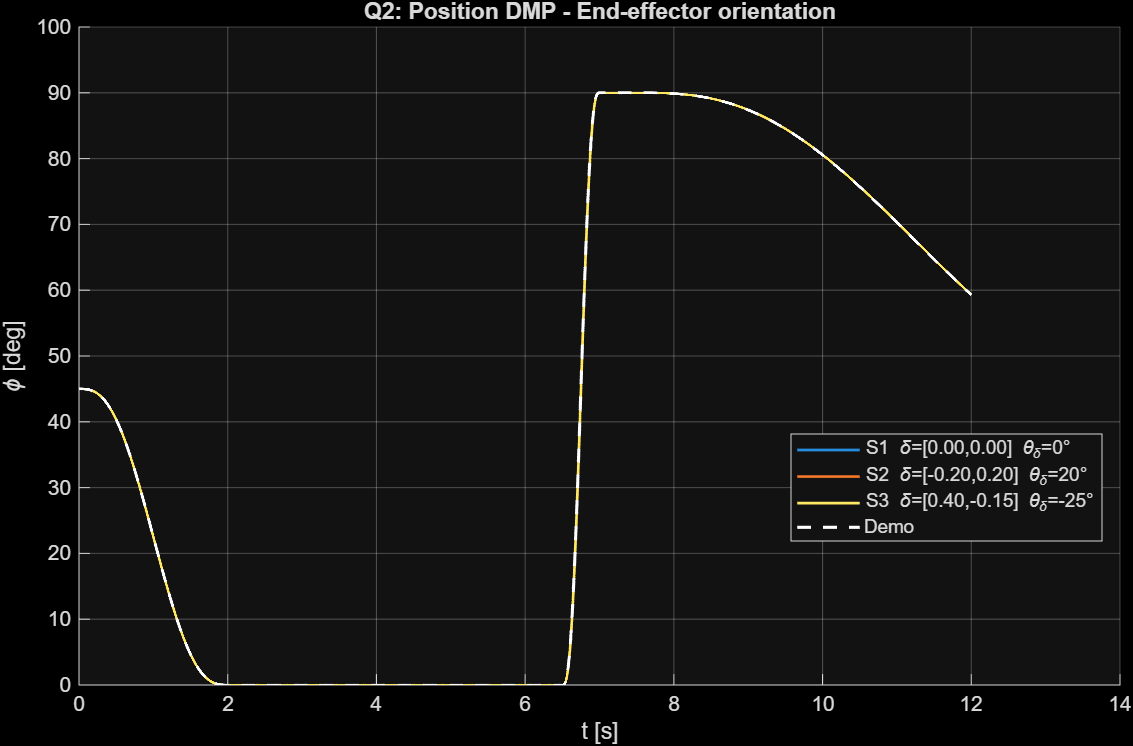
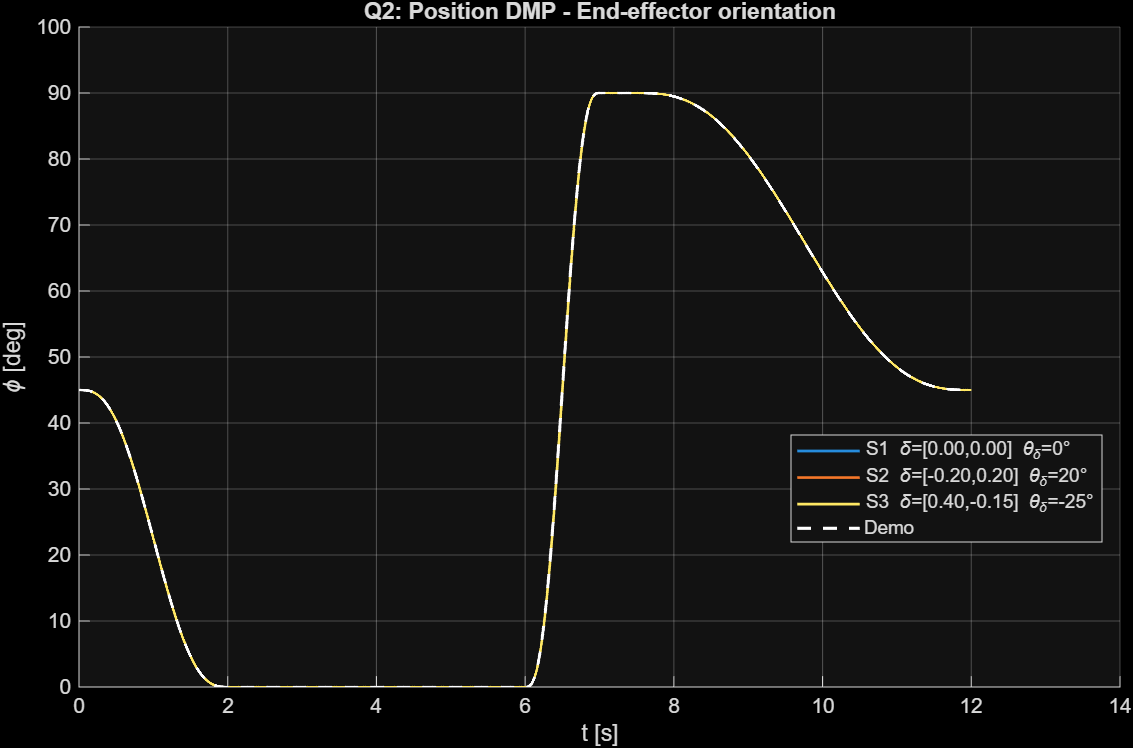
feedback changes

diff --git a/code/main_part2.m b/code/main_part2.m
@@ -41,9 +41,9 @@ timing.dt = 1e-3;
 timing.T_total = 12.0;
 timing.t_appr = 2.0;    % home -> grasp
 timing.t_track = 0.5;   % follow belt A while the gripper closes
-timing.t_trans = 3.5;   % grasp end -> above Part B
+timing.t_trans = 3.0;   % grasp end -> above Part B
 timing.t_lower = 0.5;   % above Part B -> entry (vertical, no rotation)
-timing.t_screw = 0.5;   % entry -> assembly (vertical + 90° rotation)
+timing.t_screw = 1.0;   % entry -> assembly (vertical + 90° rotation)
 timing.t_hold = 0.5;    % gripper opens
 
 %% 2. Generate Part 1 demonstration
@@ -129,7 +129,8 @@ for s = 1:n_s
     phi_1 = phi_grasp;
  
     % 2. Deliver: position DMP, orientation from Part 1
-    [p_2, ~, ~] = simulate_dmp(dmp_pos_del, p_grasp_end, g_pos, t_deliver);
+    dy0_del = dp_del(:, 1);
+    [p_2, ~, ~] = simulate_dmp(dmp_pos_del, p_grasp_end, g_pos, t_deliver, dy0_del);
     phi_2 = phi_deliver;
  
     % 3. Hold
@@ -183,9 +184,25 @@ for s = 1:n_s
     p_1 = p_grasp;
     phi_1 = phi_grasp;
  
-    % 2. Deliver: position + orientation DMPs
-    [p_2, ~, ~] = simulate_dmp(dmp_pos_del, p_grasp_end, g_pos, t_deliver);
-    [phi_2, ~, ~] = simulate_dmp(dmp_phi_del, phi_grasp_end, g_phi, t_deliver);
+    % 2a. Deliver Position
+    dy0_del = dp_del(:, 1);
+    [p_2, ~, ~] = simulate_dmp(dmp_pos_del, p_grasp_end, g_pos, t_deliver, dy0_del);
+    
+    % 2b. Deliver Orientation: Custom polynomial instead of DMP 
+    phi_2 = zeros(1, length(t_deliver));
+    t_align = timing.t_trans + timing.t_lower; % Duration of air movement
+    
+    for i = 1:length(t_deliver)
+        t_loc = t_deliver(i);
+        if t_loc <= t_align
+            % Phase A: Rotate to match the misalignment (theta_delta)
+            [phi_2(i), ~] = poly5_scalar(phi_grasp_end, scen(s).theta, 0, 0, t_align, t_loc);
+        else
+            % Phase B: The actual screw motion (strictly 90 degrees / pi/2)
+            t_screw_loc = t_loc - t_align;
+            [phi_2(i), ~] = poly5_scalar(scen(s).theta, scen(s).theta + pi/2, 0, 0, timing.t_screw, t_screw_loc);
+        end
+    end
  
     % 3. Hold
     n_h = round(timing.t_hold / timing.dt);
@@ -339,4 +356,15 @@ for ax_i = 1:4
 end
 sgtitle([ttl ' - Joint velocities']);
  
+end
+
+
+% 5th-order polynomial with position+velocity boundary conditions
+function [s, v] = poly5_scalar(s0, sf, v0, vf, T, t)
+    h = sf - s0;
+    a3 = (20*h - (8*vf + 12*v0)*T) / (2*T^3);
+    a4 = (-30*h + (14*vf + 16*v0)*T) / (2*T^4);
+    a5 = (12*h - 6*(vf + v0)*T) / (2*T^5);
+    s = s0 + v0*t + a3*t^3 + a4*t^4 + a5*t^5;
+    v = v0 + 3*a3*t^2 + 4*a4*t^3 + 5*a5*t^4;
 end

diff --git a/code/simulate_dmp.m b/code/simulate_dmp.m
@@ -1,4 +1,4 @@
-function [y, dy, ddy] = simulate_dmp(dmp, y0, g, t)
+function [y, dy, ddy] = simulate_dmp(dmp, y0, g, t, dy0)
 % Integrate a trained DMP forward with new start and goal
 %
 % Args:
@@ -6,6 +6,7 @@ function [y, dy, ddy] = simulate_dmp(dmp, y0, g, t)
 %   y0: new starting position
 %   g: new goal position
 %   t: time vector for the simulation
+%   dy0: (optional) initial spatial velocity vector
 %
 % Returns:
 %   y: generated position trajectory
@@ -19,10 +20,13 @@ g = g(:);
 D = numel(y0);
 scale = g - y0;   % the new spatial scale
 
+% Default to zero initial velocity if not provided
+if nargin < 5, dy0 = zeros(D, 1); end
+
 % State variables
 x = 1;   % canonical phase clock (starts at 1, decays to 0)
-y_curr = y0;   % initial position
-z_curr = zeros(D, 1);   % initial scaled velocity (starts from rest)
+y_curr = y0(:);   % initial position
+z_curr = dmp.tau * dy0(:);   % initial scaled velocity (allows non-zero starting velocity)
 
 y = zeros(D, N_t);
 dy = zeros(D, N_t);

diff --git a/code/main_part1.m b/code/main_part1.m
@@ -41,9 +41,9 @@ timing.dt = 1e-3;
 timing.T_total = 12.0;
 timing.t_appr = 2.0;    % home -> grasp
 timing.t_track = 0.5;   % follow belt A while the gripper closes
-timing.t_trans = 3.5;   % grasp end -> above Part B
+timing.t_trans = 3.0;   % grasp end -> above Part B
 timing.t_lower = 0.5;   % above Part B -> entry (vertical, no rotation)
-timing.t_screw = 0.5;   % entry -> assembly (vertical + 90° rotation)
+timing.t_screw = 1.0;   % entry -> assembly (vertical + 90° rotation)
 timing.t_hold = 0.5;    % gripper opens
 
 %% 4. Key poses and trajectory

diff --git a/code/key_poses.m b/code/key_poses.m
@@ -11,7 +11,7 @@ function poses = key_poses(geo, timing, T_home)
 
 % 1. Home
 poses.p_home = T_home(1:3, 4);
-poses.phi_home = atan2(T_home(2,1), T_home(1,1));
+poses.phi_home = pi/4;
 
 % 2. Grasp pose: meet Part A on belt A
 xA_grasp = geo.beltA_x0 + geo.beltA_vx * timing.t_appr;
